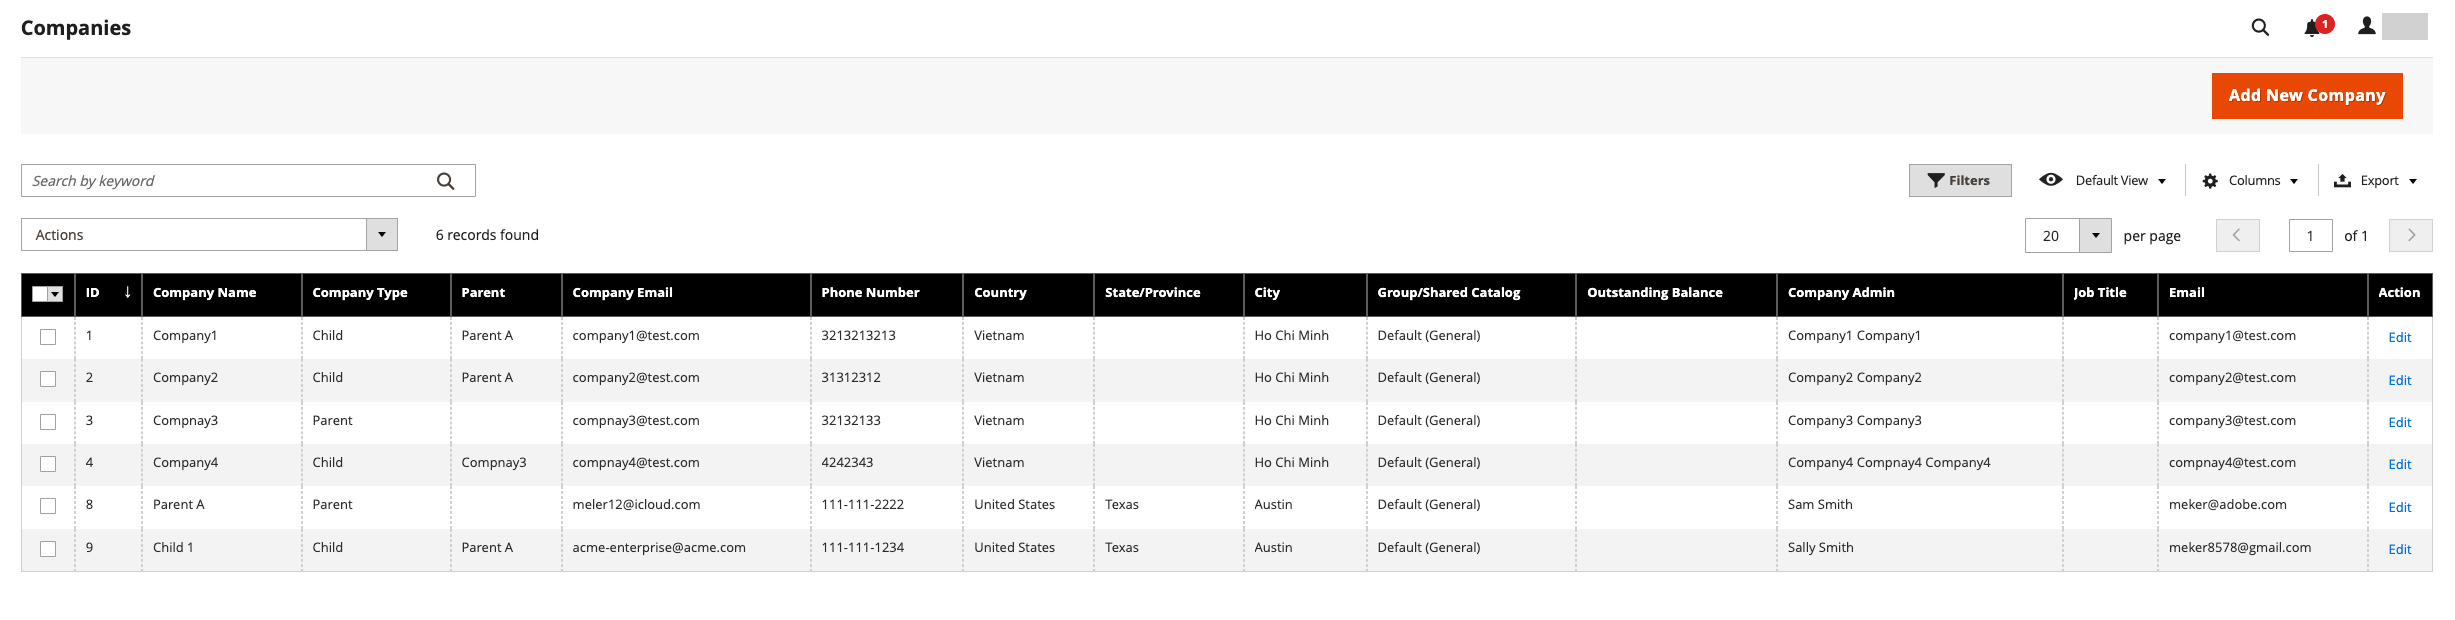
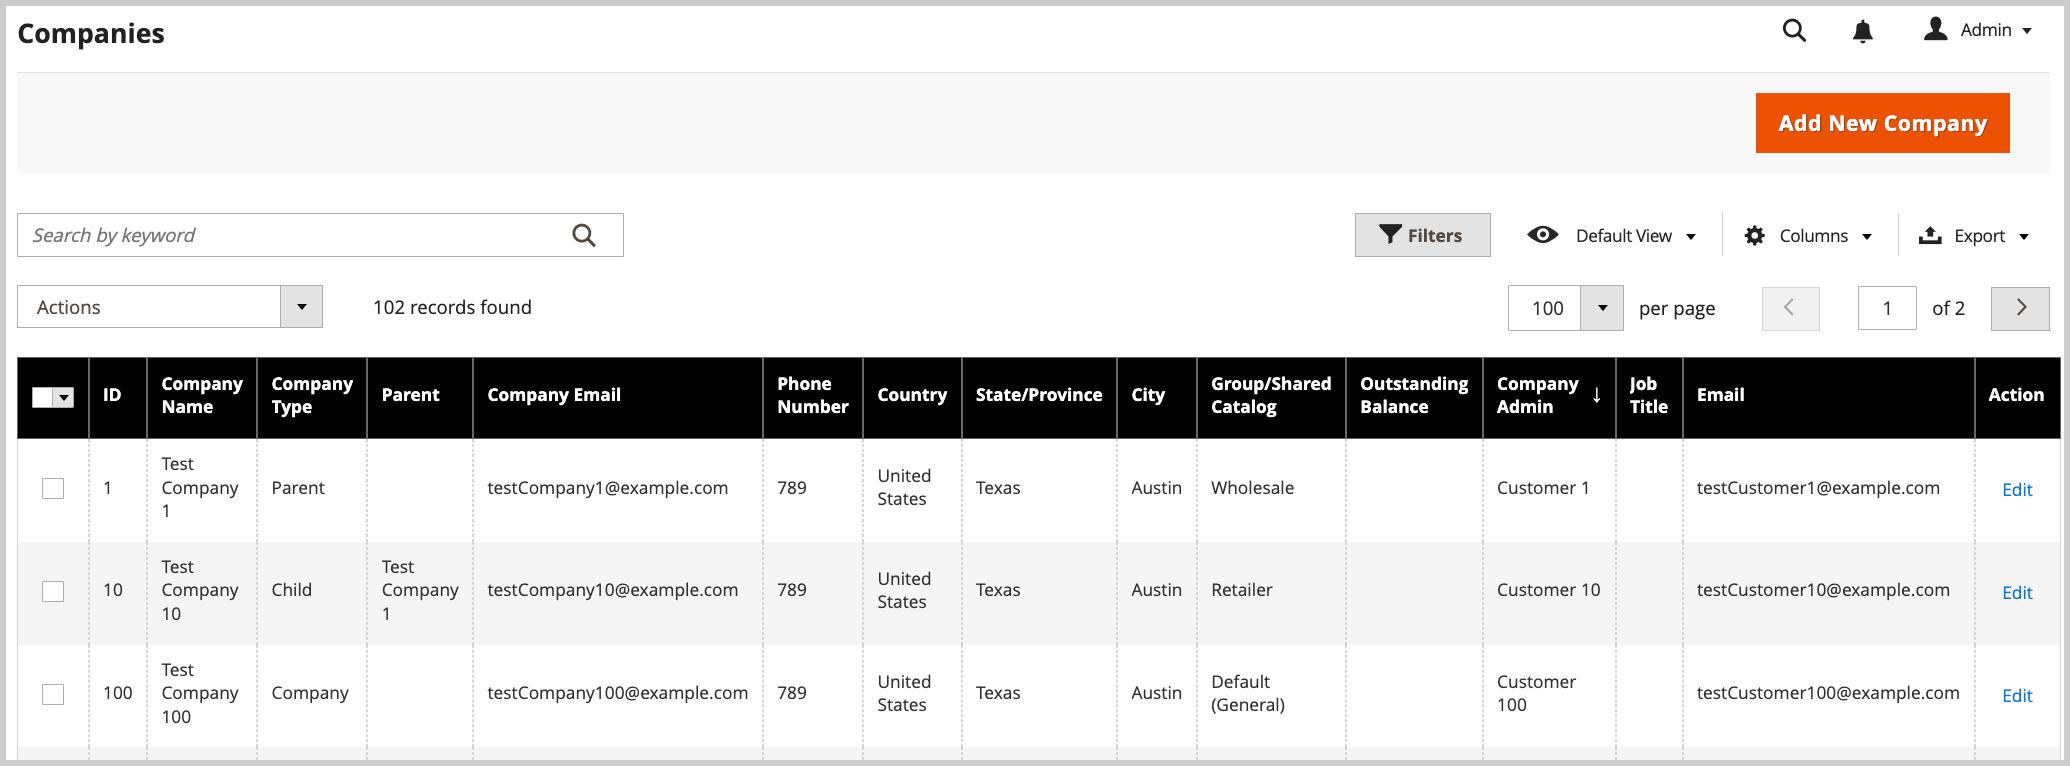
- Add bulk advanced settings action - Clean up manage companies page     - Update screen captures to show all company types     - Restructure overview to provide more information about     company hierachy

diff --git a/help/b2b/manage-companies.md b/help/b2b/manage-companies.md
@@ -11,20 +11,46 @@ exl-id: 8246be3d-ff9f-4f9f-875d-1b999befc534
 
 [!BADGE 1.5.0-beta]{type=Informative url="/help/b2b/release-notes.md" tooltip="Available only for Beta program participants"}
 
-The Company management capability streamlines business operations for companies with complex organizational structures. Admin users can manage companies as a group by building a company hierarchy that assigns related companies to a designated parent company. This assignment allows the parent company administrator to manage their own account and the company accounts for all assigned companies.
+Company management streamlines business operations for companies with complex organizational structures. Admin users can mirror the structure in Adobe Commerce by building a company hierarchy that assigns related companies to the designated parent company. This assignment allows the parent company administrator to view and manage their own account and the company hierarchy for all assigned companies.
 
-1. In the _Admin_ sidebar, go to **[!UICONTROL Customers]** > **[!UICONTROL Companies]**.
+Initiate company management tasks from the *[!UICONTROL Companies]* grid.
 
-1. Open the company detail page in the Companies grid for the parent company by selecting the **[!UICONTROL Edit]** action.
+From the *[!UICONTROL Admin]*, go to  **[!UICONTROL Customers]** > **[!UICONTROL Companies]**.
 
-![Companies Grid](./assets/company-detail-view.png){width="700" zoomable="yes"}
+  ![Companies Grid](./assets/companies-grid-view.png){width="675
+   " zoomable="yes"}
+
+The *[!UICONTROL Company Type]* column indicates whether a company is managed as part of an organization, or as a separate company.
+
+- `Parent` is a business organization with one or more assigned companies. A parent company cannot be assigned as a child of another company.
+
+- `Child` is a company that has been assigned to an organization. A company can be assigned to only one parent company.
+
+- `Company` represents a single company. A single company can be added to an organization by assigning it to a parent company.
+
+When you edit a parent or child company from the grid, the company details list all associated companies in the *[!UICONTROL Company Hierarchy]*.  A `Current` flag indicates the company you are editing.
+
+   ![Companies Grid](./assets/company-detail-hierarchy-current-flag.png){width="700" zoomable="yes"}
+
+>[!NOTE]
+>
+>See the [Manage company accounts](account-company-manage.md) for more information on the Companies grid.
 
 See the [Manage company accounts](account-company-manage.md) for more information on the Companies grid.
 
-## [!UICONTROL Company Hierarchy]
+## View and configure the [!UICONTROL Company Hierarchy]
 
-On initial company creation, the [!UICONTROL Company Hierarchy] grid is empty when you expand it. After a company is created, Admin users with appropriate permissions can use the [!UICONTROL Company Hierarchy] to build a parent company organization by editing the designated parent company and assigning related companies.
+On initial company creation, the [!UICONTROL Company Hierarchy] grid is empty. It is also empty if the company is a single company.
 
 ![Companies Hierarchy Grid](./assets/company-hierarchy-grid.png){width="700" zoomable="yes"}
 
-See [assign and unassign companies](assign-companies.md) for more information on available actions in the [!UICONTROL Company Hierarchy] grid.
+If the company is a designated parent company, Admin users with appropriate permissions can build the company hierarchy by assigning companies to it **[!UICONTROL Assign Companies]**.
+
+After you create a parent company by assigning a company to it, use the *[!UICONTROL Company Hierarchy]* grid for other company management tasks:
+
+- View all companies associated with parent company.
+- From a parent company detail page, assign more companies to the organization.
+- Remove a company from an organization by using the *[!UICONTROL Unassign from parent]* action.
+- Update the [Advanced Settings](account-company-create.md#advanced-settings) configuration to apply the same settings to multiple companies.
+
+For detailed instructions, see [assign and unassign companies](assign-companies.md).
